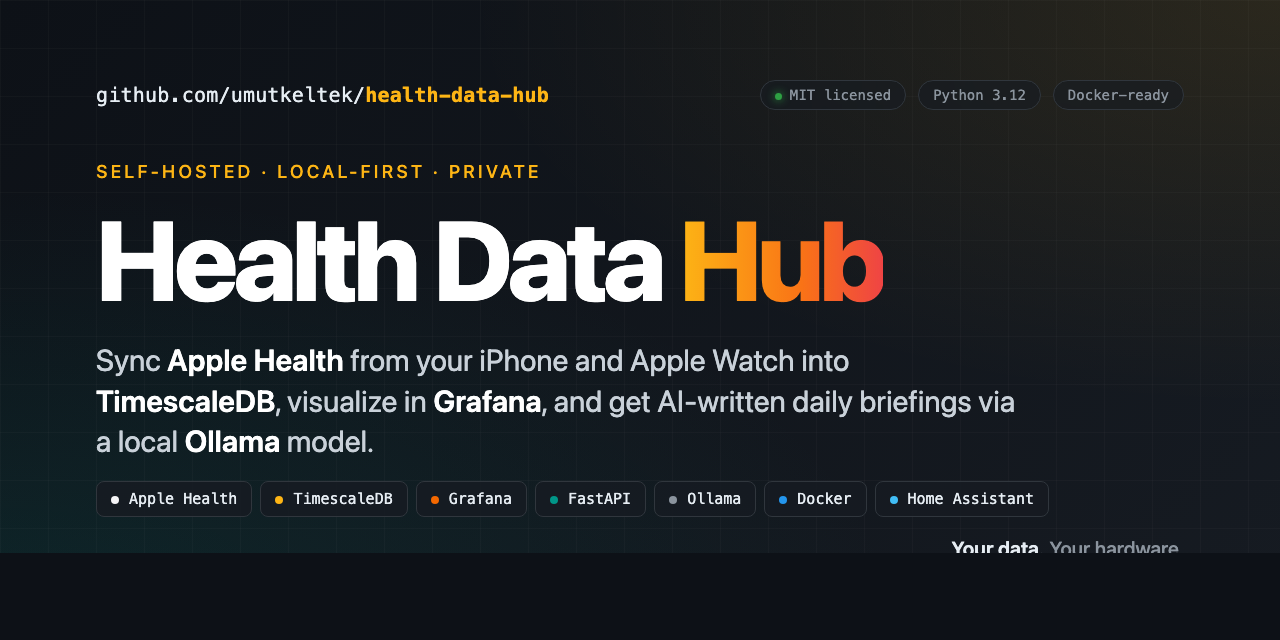
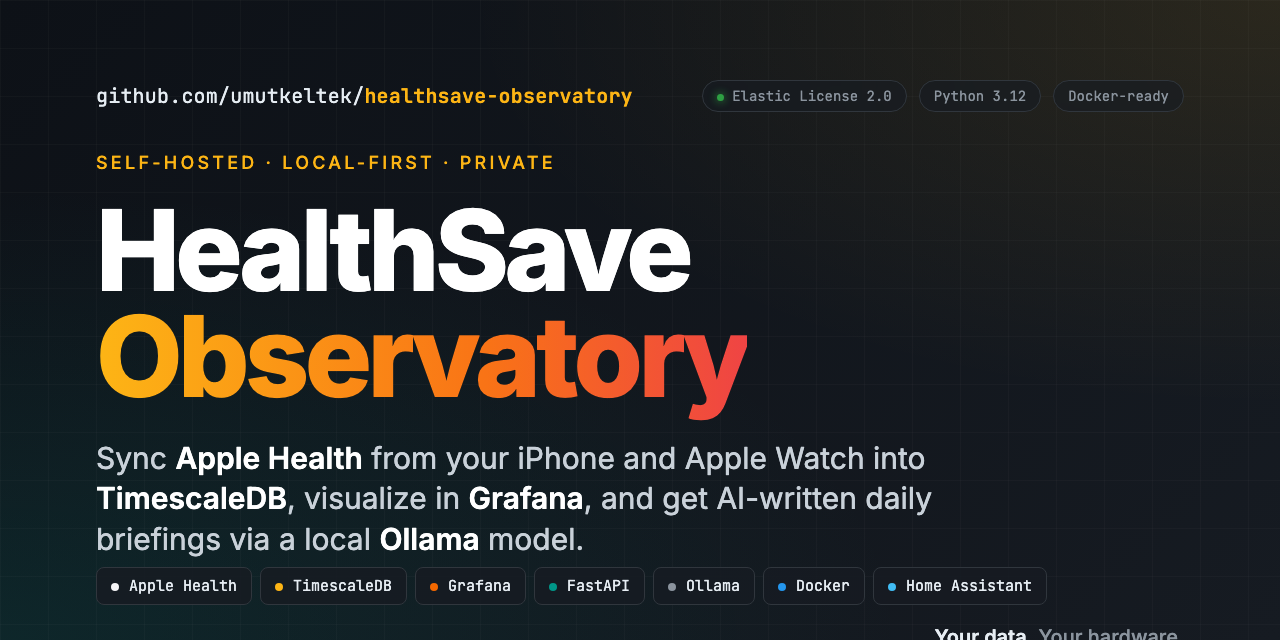
docs(social): refresh GitHub social card to HealthSave Observatory
Update the card wordmark (HealthSave Observatory) and repo slug (healthsave-observatory); keep the Elastic License 2.0 badge (core stays ELv2/source-available). Re-rendered the 1280x640 PNG from the template.

diff --git a/.github/social-preview.html b/.github/social-preview.html
@@ -2,7 +2,7 @@
 <html>
 <head>
 <meta charset="utf-8" />
-<title>Health Data Hub - Social Preview</title>
+<title>HealthSave Observatory - Social Preview</title>
 <style>
   @import url('https://fonts.googleapis.com/css2?family=Inter:wght@400;500;600;800&family=JetBrains+Mono:wght@400;600&display=swap');
 
@@ -183,7 +183,7 @@
 
     <div class="top-row">
       <div class="slug">
-        <span class="user">github.com/umutkeltek/</span><span class="repo">health-data-hub</span>
+        <span class="user">github.com/umutkeltek/</span><span class="repo">healthsave-observatory</span>
       </div>
       <div class="badges">
         <span class="badge live">Elastic License 2.0</span>
@@ -194,7 +194,7 @@
 
     <div class="middle">
       <div class="eyebrow">Self-hosted · Local-first · Private</div>
-      <h1>Health Data <span class="accent">Hub</span></h1>
+      <h1>HealthSave<br><span class="accent">Observatory</span></h1>
       <div class="subtitle">
         Sync <b>Apple Health</b> from your iPhone and Apple Watch into <b>TimescaleDB</b>,
         visualize in <b>Grafana</b>, and get AI-written daily briefings via a local <b>Ollama</b> model.
